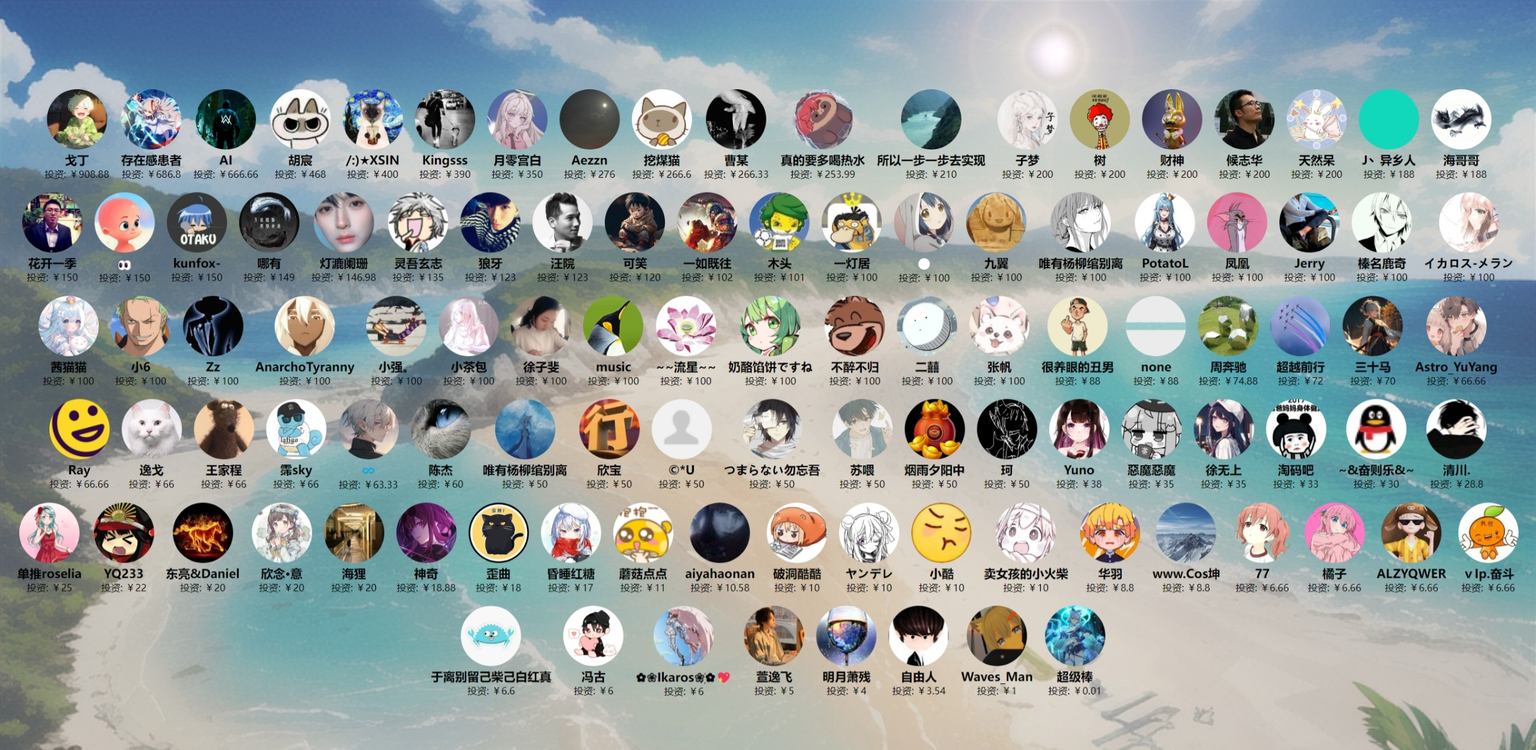
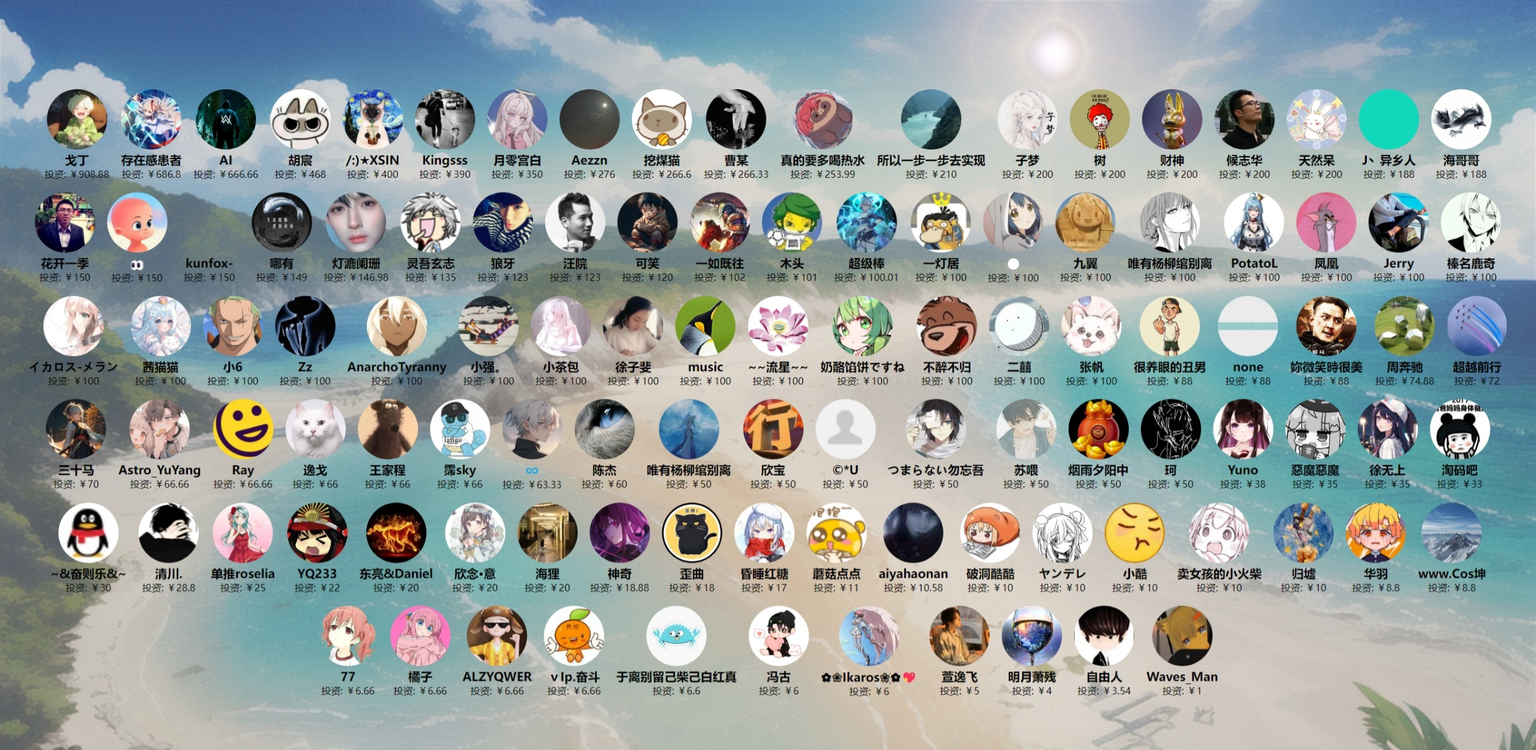
更新投资人

diff --git a/docs/投资人/index.html b/docs/投资人/index.html
@@ -202,6 +202,11 @@
             amount: "￥101"
         },
         {
+            name: "超级棒",
+            avatar: "https://images.cnblogs.com/cnblogs_com/ikaros-521/2328032/o_240307032710_QQ%E5%9B%BE%E7%89%8720240307112635.jpg",
+            amount: "￥100.01"
+        },
+        {
             name: "一灯居",
             avatar: "https://images.cnblogs.com/cnblogs_com/ikaros-521/2328032/o_230722162512_QQ%E5%9B%BE%E7%89%8720230723002456.jpg",
             amount: "￥100"
@@ -319,6 +324,11 @@
         {
             name: "none",
             avatar: "https://images.cnblogs.com/cnblogs_com/ikaros-521/2328032/o_231201155900_AgAABTM-uTiMo8J3YrpDw4o57-UT6PcJ.png",
+            amount: "￥88"
+        },
+        {
+            name: "妳微笑時很美",
+            avatar: "https://images.cnblogs.com/cnblogs_com/ikaros-521/2328032/o_240426110836_QQ%E5%9B%BE%E7%89%8720240426190822.jpg",
             amount: "￥88"
         },
         {
@@ -507,6 +517,11 @@
             amount: "￥10"
         },
         {
+            name: "归墟",
+            avatar: "https://images.cnblogs.com/cnblogs_com/ikaros-521/2328032/o_240426111023_QQ%E5%9B%BE%E7%89%8720240426190948.jpg",
+            amount: "￥10"
+        },
+        {
             name: "华羽",
             avatar: "https://images.cnblogs.com/cnblogs_com/ikaros-521/2328032/o_230722163359_QQ%E5%9B%BE%E7%89%8720230722234807.jpg",
             amount: "￥8.8"
@@ -570,11 +585,6 @@
             name: "Waves_Man",
             avatar: "https://images.cnblogs.com/cnblogs_com/ikaros-521/2328032/o_240322135510_QQ%E5%9B%BE%E7%89%8720240322215445.jpg",
             amount: "￥1"
-        },
-        {
-            name: "超级棒",
-            avatar: "https://images.cnblogs.com/cnblogs_com/ikaros-521/2328032/o_240307032710_QQ%E5%9B%BE%E7%89%8720240307112635.jpg",
-            amount: "￥0.01"
         },
     ];
 
